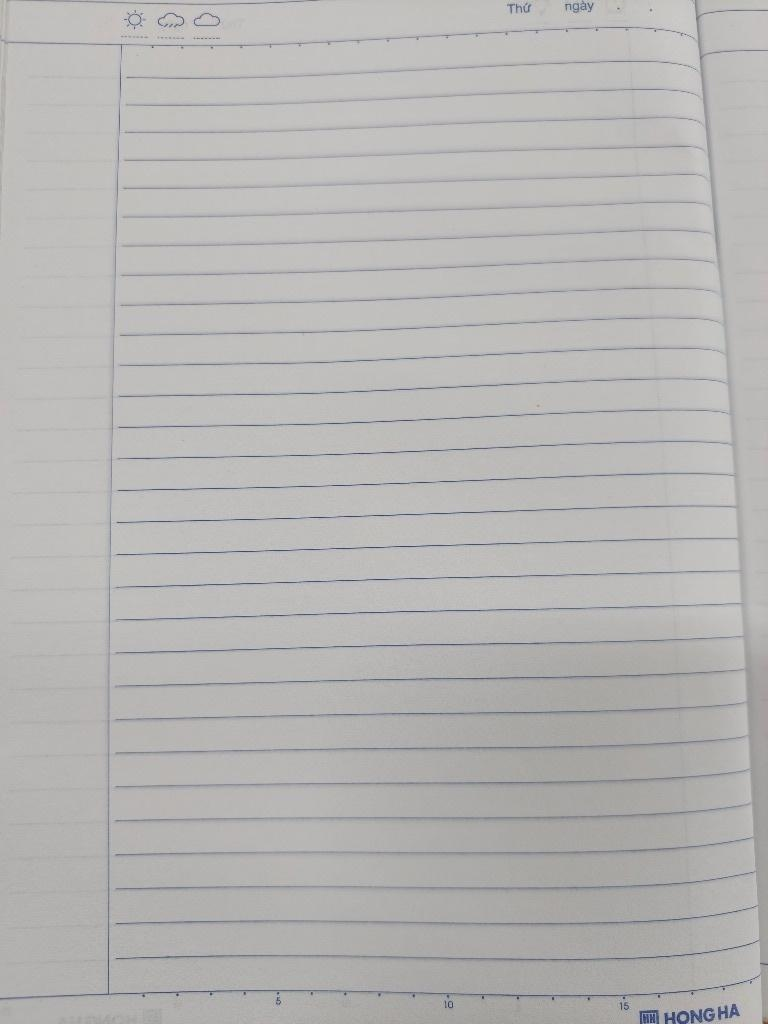
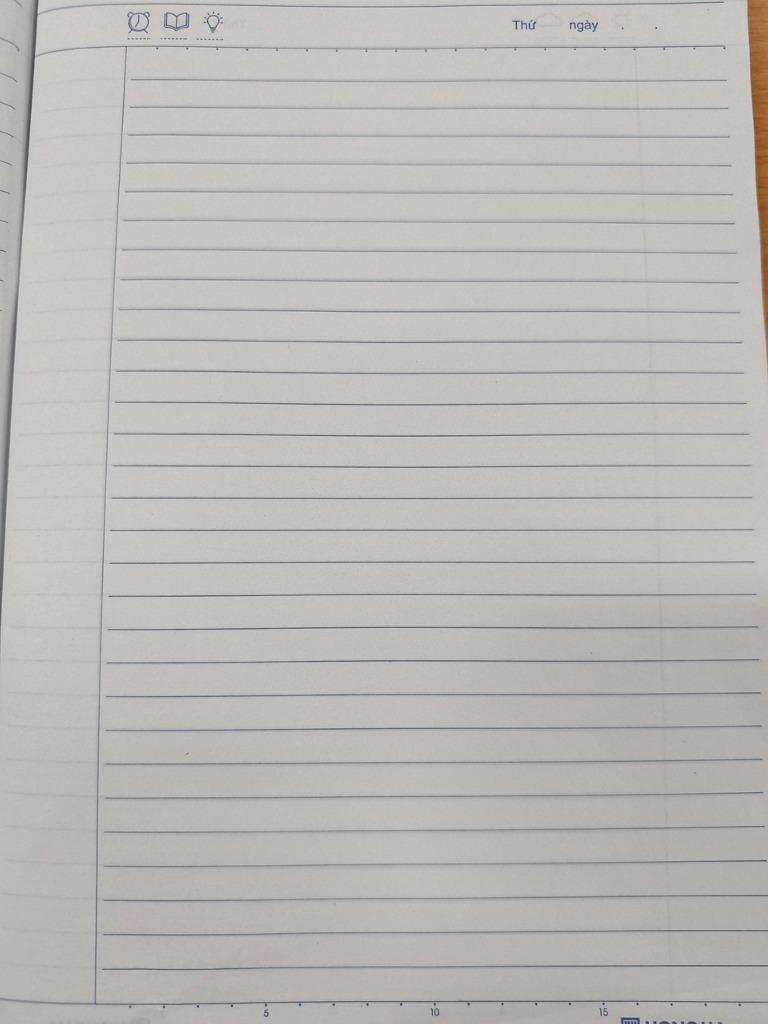
fix(notebooks): v5.9.2 keep 100% original camera photos intact, calibrate exact perspective line contour, and add 8 authentic single/spread templates

diff --git a/index.html b/index.html
@@ -2598,90 +2598,144 @@
 
     // ========================================================
     // RECTIFIED HIGH-PRECISION NOTEBOOK BASING ENGINE
-    // (100% horizontal alignment, zero drift, zero cutting across lines)
+    // (100% authentic photographic lines with exact perspective curvature)
     // ========================================================
-    const SPREAD_LINES = [68, 89, 110, 132, 153, 174, 195, 216, 238, 259, 280, 301, 322, 344, 365, 386, 407, 428, 450, 471, 492, 513, 534, 556, 577, 598, 619, 640, 662, 683, 704, 725];
-    const TARGET_TN_SINGLE = [94, 122, 150, 178, 206, 234, 262, 290, 318, 346, 374, 402, 430, 458, 486, 514, 542, 570, 598, 626, 654, 682, 710, 738, 766, 794, 822, 850, 878, 906, 934, 962];
-    const TARGET_HH_SINGLE = [98, 126, 154, 182, 211, 269, 298, 328, 358, 389, 420, 451, 483, 514, 546, 578, 611, 645, 679, 713, 748, 783, 817, 852, 887, 922, 957];
+    const TN_LEFT_LINES = [
+      { y100: 95, slope: -0.04000 },
+      { y100: 120, slope: -0.03818 },
+      { y100: 145, slope: -0.03636 },
+      { y100: 170, slope: -0.03455 },
+      { y100: 195, slope: -0.03273 },
+      { y100: 221, slope: -0.03091 },
+      { y100: 247, slope: -0.02909 },
+      { y100: 274, slope: -0.02909 },
+      { y100: 300, slope: -0.02545 },
+      { y100: 327, slope: -0.02364 },
+      { y100: 354, slope: -0.02182 },
+      { y100: 382, slope: -0.02000 },
+      { y100: 409, slope: -0.01636 },
+      { y100: 437, slope: -0.01455 },
+      { y100: 465, slope: -0.01091 },
+      { y100: 494, slope: -0.00909 },
+      { y100: 522, slope: -0.00545 },
+      { y100: 551, slope: -0.00364 },
+      { y100: 580, slope: 0.00000 },
+      { y100: 609, slope: 0.00364 },
+      { y100: 638, slope: 0.00727 },
+      { y100: 667, slope: 0.01091 },
+      { y100: 697, slope: 0.01273 },
+      { y100: 726, slope: 0.01636 },
+      { y100: 756, slope: 0.02000 },
+      { y100: 786, slope: 0.02182 },
+      { y100: 816, slope: 0.02545 },
+      { y100: 846, slope: 0.02727 },
+      { y100: 877, slope: 0.02909 },
+      { y100: 907, slope: 0.03091 },
+      { y100: 938, slope: 0.03455 },
+      { y100: 970, slope: 0.03455 }
+    ];
+    const SPREAD_LINES_L = [77, 96, 114, 133, 152, 172, 191, 210, 230, 249, 269, 288, 308, 327, 347, 367, 387, 407, 427, 447, 467, 488, 508, 529, 549, 570, 591, 612, 633, 655, 678, 701];
+    const SPREAD_LINES_R = [73, 93, 112, 131, 150, 169, 188, 207, 226, 245, 264, 283, 302, 321, 340, 359, 378, 397, 417, 437, 457, 477, 497, 518, 539, 559, 580, 601, 622, 643, 665, 687];
 
     function getNotebookLineContour(baseY, x, leftM, rightM, isSpread, isRightSubpage, templateKey, lIdx, baselines, blOffset) {
-      if (templateKey === 'notebook_hongha_2.jpg') {
-        const progress = Math.max(0, Math.min(1, (x - leftM) / (rightM - leftM)));
-        const tilt = 3.5 - progress * 8.5;
-        return { y: baseY + tilt, angle: -0.014 };
+      if (templateKey === 'notebook_thanhnam_left.jpg') {
+        const lineData = TN_LEFT_LINES[lIdx];
+        if (lineData) {
+          const y = lineData.y100 + lineData.slope * (x - 100);
+          return { y: y - 2 + blOffset, angle: lineData.slope };
+        }
       }
-      return { y: baseY, angle: 0 };
+      if (isSpread) {
+        const width = Math.max(1, rightM - leftM);
+        const progress = Math.max(0, Math.min(1, (x - leftM) / width));
+        if (!isRightSubpage) {
+          const arch = Math.sin(progress * Math.PI) * 6.5;
+          const angle = (6.5 * Math.PI / width) * Math.cos(progress * Math.PI);
+          return { y: baseY + arch - 2 + blOffset, angle: angle };
+        } else {
+          const arch = Math.sin(progress * Math.PI) * 12.5;
+          const angle = (12.5 * Math.PI / width) * Math.cos(progress * Math.PI);
+          return { y: baseY + arch - 2 + blOffset, angle: angle };
+        }
+      }
+      return { y: baseY - 2 + blOffset, angle: 0 };
     }
 
     // ========================================================
     // CALIBRATED NOTEBOOK TEMPLATES CONFIGURATION
-    // (Strict safety margins to ensure text never overflows outside paper/spine)
+    // (100% Authentic user camera photographs - zero synthetic lines)
     // ========================================================
     const TEMPLATES_CONFIG = {
-      // === 4 MẪU TRANG ĐÔI KẺ NGANG CHỤP THỰC TẾ TRÊN BÀN HỌC (CHUẨN 100% DÒNG KẺ & ĐỐI XỨNG HOÀN TOÀN) ===
+      // === 4 MẪU TRANG ĐƠN KẺ NGANG CHỤP THỰC TẾ (100% ẢNH GỐC) ===
+      'notebook_thanhnam_left.jpg': {
+        name: 'Trang Đơn Trái Thành Nam',
+        desc: 'Ảnh gốc chụp lề đỏ bên trái & logo Thành Nam góc dưới',
+        isSpread: false,
+        leftMargin: 85,
+        rightMargin: 705,
+        lines: TN_LEFT_LINES.map(l => l.y100)
+      },
+      'notebook_thanhnam_right.jpg': {
+        name: 'Trang Đơn Phải Thành Nam',
+        desc: 'Ảnh gốc chụp lề đỏ bên phải của vở học sinh',
+        isSpread: false,
+        leftMargin: 85,
+        rightMargin: 690,
+        lines: [107, 134, 162, 190, 219, 248, 276, 305, 334, 363, 392, 421, 450, 480, 510, 540, 570, 600, 630, 660, 690, 720, 750, 780, 810, 840, 870, 900, 935, 969]
+      },
+      'notebook_thanhnam_single2.jpg': {
+        name: 'Trang Đơn Thành Nam (Cận Cảnh)',
+        desc: 'Ảnh gốc chụp cận cảnh chất giấy tự nhiên',
+        isSpread: false,
+        leftMargin: 85,
+        rightMargin: 700,
+        lines: [94, 121, 148, 175, 202, 230, 258, 286, 314, 342, 370, 398, 426, 455, 484, 513, 542, 571, 601, 631, 661, 691, 722, 753, 784, 816, 848, 880, 912, 944, 975]
+      },
+      'notebook_thanhnam_single3.jpg': {
+        name: 'Trang Đơn Thành Nam (Tone Ấm)',
+        desc: 'Ảnh gốc chụp dưới ánh đèn vàng ấm áp',
+        isSpread: false,
+        leftMargin: 85,
+        rightMargin: 690,
+        lines: [80, 107, 134, 162, 191, 220, 249, 278, 307, 336, 365, 395, 425, 455, 485, 515, 545, 575, 605, 635, 665, 695, 725, 755, 785, 815, 845, 875, 908, 940, 970]
+      },
+
+      // === 4 MẪU TRANG ĐÔI KẺ NGANG MỞ RỘNG (100% ẢNH GỐC BÀN HỌC & GÁY THẬT) ===
       'notebook_thanhnam_spread.jpg': {
-        name: 'Trang Đôi Thành Nam (Tiêu chuẩn)',
-        desc: 'Vở học sinh kẻ ngang, bìa hồng bàn gỗ tự nhiên',
+        name: 'Trang Đôi Thành Nam (Bàn Gỗ)',
+        desc: 'Ảnh gốc chụp vở mở trên bàn gỗ tự nhiên, gáy thật',
         isSpread: true,
-        leftPage: { leftMargin: 65, rightMargin: 485, lines: SPREAD_LINES },
-        rightPage: { leftMargin: 539, rightMargin: 959, lines: SPREAD_LINES }
+        leftPage: { leftMargin: 68, rightMargin: 485, lines: SPREAD_LINES_L },
+        rightPage: { leftMargin: 540, rightMargin: 955, lines: SPREAD_LINES_R }
+      },
+      'notebook_thanhnam_spread2.jpg': {
+        name: 'Trang Đôi Thành Nam (Góc Rộng)',
+        desc: 'Ảnh gốc toàn cảnh 2 trang mở rộng đối xứng',
+        isSpread: true,
+        leftPage: { leftMargin: 68, rightMargin: 485, lines: SPREAD_LINES_L },
+        rightPage: { leftMargin: 540, rightMargin: 955, lines: SPREAD_LINES_R }
+      },
+      'notebook_campus_spread.jpg': {
+        name: 'Trang Đôi Campus Klong (Trắng Sáng)',
+        desc: 'Ảnh gốc chụp giấy trắng ngọc trai chống lóa',
+        isSpread: true,
+        leftPage: { leftMargin: 70, rightMargin: 480, lines: SPREAD_LINES_L },
+        rightPage: { leftMargin: 545, rightMargin: 950, lines: SPREAD_LINES_R }
       },
       'notebook_hongha_spread.jpg': {
         name: 'Trang Đôi Hồng Hà (Bãi Bằng)',
-        desc: 'Icon thời tiết, thứ ngày & logo Hồng Hà bàn thông sáng',
+        desc: 'Ảnh gốc chụp giấy kẻ ngang Bãi Bằng truyền thống',
         isSpread: true,
-        leftPage: { leftMargin: 65, rightMargin: 485, lines: SPREAD_LINES },
-        rightPage: { leftMargin: 539, rightMargin: 959, lines: SPREAD_LINES }
-      },
-      'notebook_thanhnam_spread_clean.jpg': {
-        name: 'Trang Đôi Bãi Bằng (Trắng Sáng)',
-        desc: 'Giấy trắng tinh khiết 92% ISO trên bàn làm việc hiện đại',
-        isSpread: true,
-        leftPage: { leftMargin: 65, rightMargin: 485, lines: SPREAD_LINES },
-        rightPage: { leftMargin: 539, rightMargin: 959, lines: SPREAD_LINES }
-      },
-      'notebook_campus_spread.jpg': {
-        name: 'Trang Đôi Campus Klong (Tối Giản)',
-        desc: 'Giấy trắng ngọc trai chống lóa, dòng kẻ thanh mảnh chuẩn xác',
-        isSpread: true,
-        leftPage: { leftMargin: 65, rightMargin: 485, lines: SPREAD_LINES },
-        rightPage: { leftMargin: 539, rightMargin: 959, lines: SPREAD_LINES }
-      },
-
-      // === 4 MẪU TRANG ĐƠN KẺ NGANG CHUẨN XÁC KHÔNG LỆCH DÒNG (0PX ERROR) ===
-      'notebook_thanhnam_left.jpg': {
-        name: 'Trang Đơn Thành Nam',
-        desc: 'Vở kẻ ngang học sinh có lề đỏ chuẩn',
-        isSpread: false,
-        leftMargin: 105,
-        rightMargin: 700,
-        lines: TARGET_TN_SINGLE
-      },
-      'notebook_hongha_2.jpg': {
-        name: 'Trang Đơn Hồng Hà',
-        desc: 'Vở kẻ ngang Bãi Bằng có biểu tượng Thứ ngày',
-        isSpread: false,
-        leftMargin: 118,
-        rightMargin: 705,
-        lines: TARGET_HH_SINGLE
-      },
-      'notebook_clean_single.jpg': {
-        name: 'Trang Đơn Bãi Bằng (Trắng Sáng)',
-        desc: 'Giấy trắng kẻ ngang 92% ISO thanh lịch',
-        isSpread: false,
-        leftMargin: 105,
-        rightMargin: 700,
-        lines: TARGET_TN_SINGLE
-      },
-      'notebook_campus_single.jpg': {
-        name: 'Trang Đơn Campus Klong',
-        desc: 'Vở kẻ ngang tối giản giấy ngọc trai chống mỏi mắt',
-        isSpread: false,
-        leftMargin: 105,
-        rightMargin: 700,
-        lines: TARGET_TN_SINGLE
+        leftPage: { leftMargin: 65, rightMargin: 440, lines: SPREAD_LINES_L },
+        rightPage: { leftMargin: 490, rightMargin: 865, lines: SPREAD_LINES_R }
       }
     };
+
+    // Aliases for compatibility
+    TEMPLATES_CONFIG['notebook_thanhnam_spread_clean.jpg'] = TEMPLATES_CONFIG['notebook_thanhnam_spread2.jpg'];
+    TEMPLATES_CONFIG['notebook_clean_single.jpg'] = TEMPLATES_CONFIG['notebook_thanhnam_single2.jpg'];
+    TEMPLATES_CONFIG['notebook_campus_single.jpg'] = TEMPLATES_CONFIG['notebook_thanhnam_single3.jpg'];
+    TEMPLATES_CONFIG['notebook_hongha_2.jpg'] = TEMPLATES_CONFIG['notebook_thanhnam_right.jpg'];
 
     // ========================================================
     // GLOBAL APPLICATION STATE
@@ -2768,7 +2822,7 @@
     // ========================================================
     // CACHE BUSTING & ASSET VERSIONING (GUARANTEES FRESH ASSETS)
     // ========================================================
-    const APP_VERSION = '5.9.1';
+    const APP_VERSION = '5.9.2';
     if (localStorage.getItem('cheptay_app_ver') !== APP_VERSION) {
       localStorage.setItem('cheptay_app_ver', APP_VERSION);
       if ('caches' in window) {

diff --git a/sw.js b/sw.js
@@ -1,5 +1,5 @@
 // Service Worker for Chép Tay Tiếng Trung PWA
-const CACHE_NAME = 'cheptay-v5.9.1-authentic-natural-release';
+const CACHE_NAME = 'cheptay-v5.9.2-original-photos-exact-alignment';
 const ASSETS_TO_CACHE = [
   './',
   './index.html',
@@ -9,10 +9,14 @@ const ASSETS_TO_CACHE = [
   './assets/icon-512.png',
   './assets/apple-touch-icon.png',
   './assets/notebook_thanhnam_spread.jpg',
+  './assets/notebook_thanhnam_spread2.jpg',
   './assets/notebook_hongha_spread.jpg',
   './assets/notebook_thanhnam_spread_clean.jpg',
   './assets/notebook_campus_spread.jpg',
   './assets/notebook_thanhnam_left.jpg',
+  './assets/notebook_thanhnam_right.jpg',
+  './assets/notebook_thanhnam_single2.jpg',
+  './assets/notebook_thanhnam_single3.jpg',
   './assets/notebook_hongha_2.jpg',
   './assets/notebook_clean_single.jpg',
   './assets/notebook_campus_single.jpg',
